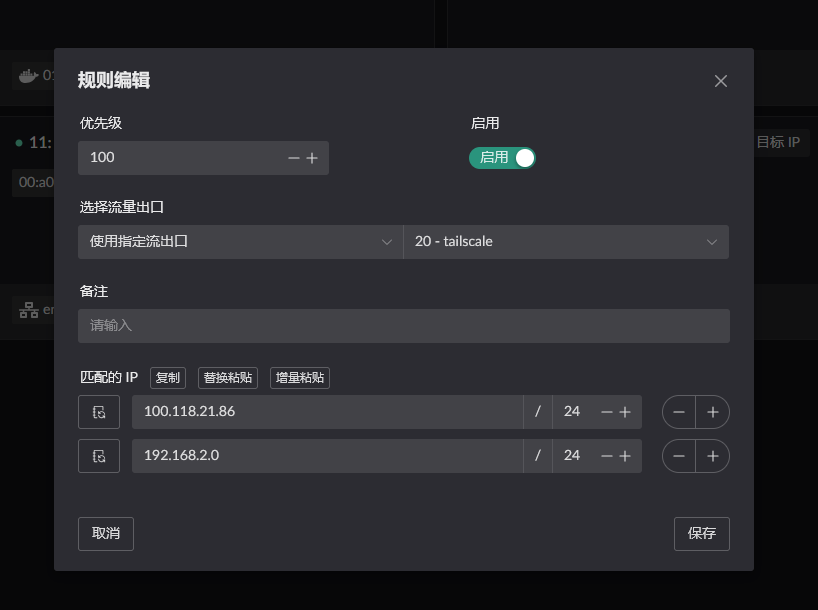
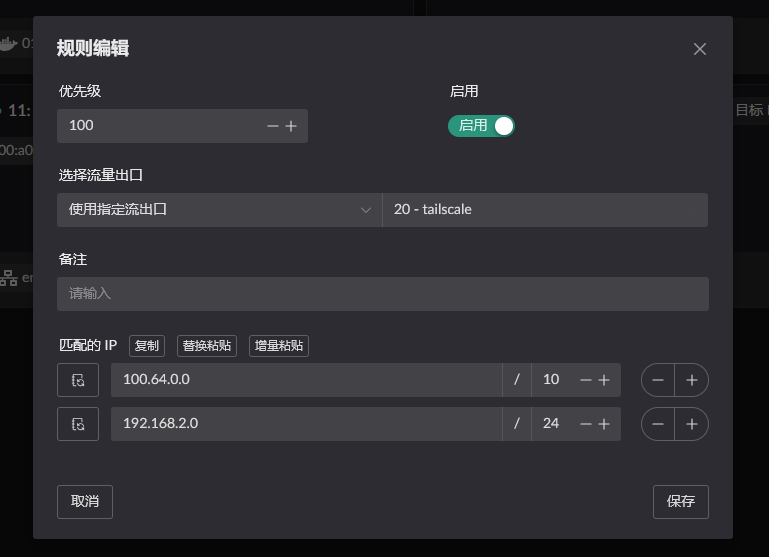
docs: Add NetBird networking instructions

diff --git a/docs/other-features/overlay/netbird.md b/docs/other-features/overlay/netbird.md
@@ -1,0 +1,102 @@
+# NetBird
+::: warning
+NetBird 的网站在直连时被阻断了, 所以实际的直连能否使用得看当前部署的环境.
+:::
+
+NetBird 的部署使用的步骤大致如下:
+1. 开启 NAT1 映射
+2. 启动 NetBird 容器, 并以此容器为出口创建一个 Flow.
+3. 设置路由让内网中的程序可以访问 NetBird 中的 IP / 网段.
+
+## 设置 NAT1
+主要有以下两种方式可进行 FullCone NAT (NAT1), 任选一种配置方式就行.
+1. 将 NetBird 使用的端口[`51820`](https://docs.netbird.io/get-started/cli#up), 配置静态 NAT.
+2. 将 NetBird 的域名 (netbird.io) 添加到 DNS 规则中. 并开启 NAT1 开关.
+
+以上两种方式都只在容器所属的 `网桥` 开启 `Lan 路由转发服务` 时才生效. 如下图.
+![](./netbird-img/1.png)
+
+> 静态NAT配置 (内网目标端口为容器端口, IP 为容器 IP)
+![](./netbird-img/2.png)
+
+> DNS / IP 规则配置  
+> 还未进行实际配置, 可参考 ZeroTier 中的配置方式.
+
+## 启动容器
+::: warning
+网桥中的名称一定要设置 !!!
+```yaml
+networks:
+  my-netbird-bridge:
+    driver: bridge
+    driver_opts:
+      # 一定要设置, 否则默认会使用动态网卡名称, 重启后网卡名称变动导致 LAN 服务不能正常开启
+      com.docker.network.bridge.name: netbird-br0
+```
+:::
+使用 [apps](https://github.com/landscape-router/landscape-apps) 仓库编译的 [镜像](https://github.com/landscape-router/landscape-apps/pkgs/container/landscape-apps%2Fnetbird) 进行启动容器. 下方展示的 compose 配置可能过时, 最新配置文件请访问 [docker-compose](https://github.com/landscape-router/landscape-apps/blob/main/netbird/docker-compose.yaml).
+
+
+然后按照你的 compose 配置进行启动即可. 
+```yaml
+services:
+  netbird:
+    image: ghcr.io/landscape-router/landscape-apps/netbird:latest
+    container_name: mybird
+    hostname: mybird
+    cap_add:
+      - NET_ADMIN
+      - SYS_ADMIN
+      - SYS_RESOURCE
+      - BPF
+      - PERFMON
+    environment:
+      - NB_SETUP_KEY=${SETUP_KEY}
+    volumes:
+      - ${DATA_PATH}:/var/lib/netbird
+      - /root/.landscape-router/unix_link/:/ld_unix_link/:ro
+    networks:
+      my-netbird-bridge:
+        ipv4_address: 10.102.1.10
+    dns:
+      - 10.102.1.1
+
+networks:
+  my-netbird-bridge:
+    driver: bridge
+    driver_opts:
+      # 一定要设置, 否则默认会使用动态网卡名称, 重启后网卡名称变动导致 LAN 服务不能正常开启
+      com.docker.network.bridge.name: netbird-br0
+    ipam:
+      config:
+        - subnet: 10.102.1.0/24
+          gateway: 10.102.1.1
+```
+然后创建一个 Flow 并使用这个容器作为出口.
+![](./netbird-img/3.png)
+
+注意，需要在 netbird 的控制面板中为网关节点添加路由。
+![](./netbird-img/edit-route.png)
+![](./netbird-img/allow-route.png)
+
+## 配置 "路由" 规则
+点击相应 Flow 的 `目标 IP` 按钮进行配置. 只有添加相应规则的 Flow 才会生效.
+![](./netbird-img/4.png)
+
+比如我当前 LAN 客户端的 MAC 地址是 `00:a0:98:27:41:47`, 这个客户端当前被 `Flow 11` 规则所管理. 所以我需要在 `Flow 11` 的 `目标 IP` 进行配置. 并选择流量的出口为刚刚启动容器时创建的 `Flow 22`.
+![](./netbird-img/5.png)
+
+这样, 当 LAN 客户端访问 `100.120.0.0/16` 或者 `192.168.2.0/24` 时, 这些数据包就会使用 Flow 22 (netbird) 的出口, 也就是被转发到 `mybird` 容器中.
+
+> 192.168.2.0/24 这个示例是假设你在对端也部署了 netbird , 那么可以直接配置对方的网段. 这样就能实现互通.
+
+## 结果验证
+设备说明:
+* `设备1`: 100.120.29.211, `非` 路由部署的 `NetBird 客户端`
+* `设备2`: 100.120.126.160, 路由部署的 `NetBird 客户端`
+* `设备3`: 10.10.10.112, 路由 LAN 下的一台主机  
+
+1. 从 `设备1` ping `设备3` 通过 `设备2` 处理.
+![](./netbird-img/6.png)
+2. 从 `设备3` ping `设备1` 通过 `设备2` 处理.
+![](./netbird-img/7.png)

diff --git a/docs/other-features/overlay/tailscale.md b/docs/other-features/overlay/tailscale.md
@@ -6,7 +6,7 @@ Tailscale 的部署使用的步骤大致如下:
 
 ## 设置 NAT1
 主要有以下两种方式可进行 FullCone NAT (NAT1), 任选一种配置方式就行.
-1. 固定 tailscale 使用的端口, 并使用静态 NAT 进行开放端口.
+1. 固定 tailscale [使用的端口](https://tailscale.com/kb/1278/tailscaled#flags-to-tailscaled), 并使用静态 NAT 进行开放端口.
 2. 动态 tailscale 端口, 但是需要添加 tailscale DERP 的 `域名` 或者 `IP` 到 DNS 或者 IP 规则中. 并开启 NAT1 开关.
 
 以上两种方式都只在容器所属的 `网桥` 开启 `Lan 路由转发服务` 时才生效. 如下图.
@@ -16,7 +16,7 @@ Tailscale 的部署使用的步骤大致如下:
 ![](./tailscale-img/2.png)
 
 > 规则配置  
-> 还未进行实际配置, 可参考 zerotier 中的配置方式.
+> 还未进行实际配置, 可参考 ZeroTier 中的配置方式.
 
 ## 启动容器
 ::: warning
@@ -78,6 +78,15 @@ networks:
 然后创建一个 Flow 并使用这个容器作为出口.
 ![](./tailscale-img/3.png)
 
+注意，需要在 tailscale 的控制面板中允许此节点的路由。
+![](./tailscale-img/edit-route.png)
+
+![](./tailscale-img/allow-route.png)
+并且在其他客户端启动时，需要增加 `--accept-routes` 选项, 例如: 
+```shell
+tailscale up --accept-routes
+```
+
 ## 配置 "路由" 规则
 点击相应 Flow 的 `目标 IP` 按钮进行配置. 只有添加相应规则的 Flow 才会生效.
 ![](./tailscale-img/4.png)
@@ -85,7 +94,7 @@ networks:
 比如我当前 LAN 客户端的 MAC 地址是 `00:a0:98:27:41:47`, 这个客户端当前被 `Flow 11` 规则所管理. 所以我需要在 `Flow 11` 的 `目标 IP` 进行配置. 并选择流量的出口为刚刚启动容器时创建的 `Flow 20`.
 ![](./tailscale-img/5.png)
 
-这样, 当 LAN 客户端访问 `100.118.21.86/32` 或者 `192.168.2.0/24` 时, 这些数据包就会使用 Flow 20 (tailscale) 的出口, 也就是被转发到 `mytail` 容器中.
+这样, 当 LAN 客户端访问 `100.64.0.0/10` 或者 `192.168.2.0/24` 时, 这些数据包就会使用 Flow 20 (tailscale) 的出口, 也就是被转发到 `mytail` 容器中.
 
 > 192.168.2.0/24 这个示例是假设你在对端也部署了 tailscale , 那么可以直接配置对方的网段. 这样就能实现互通.
 
